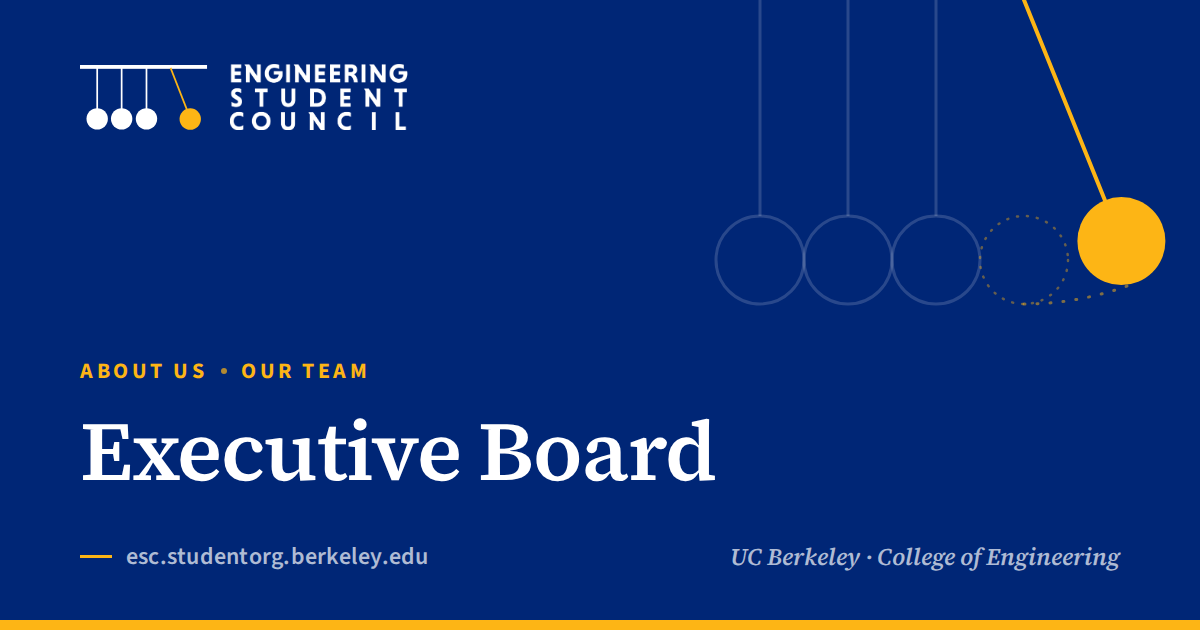
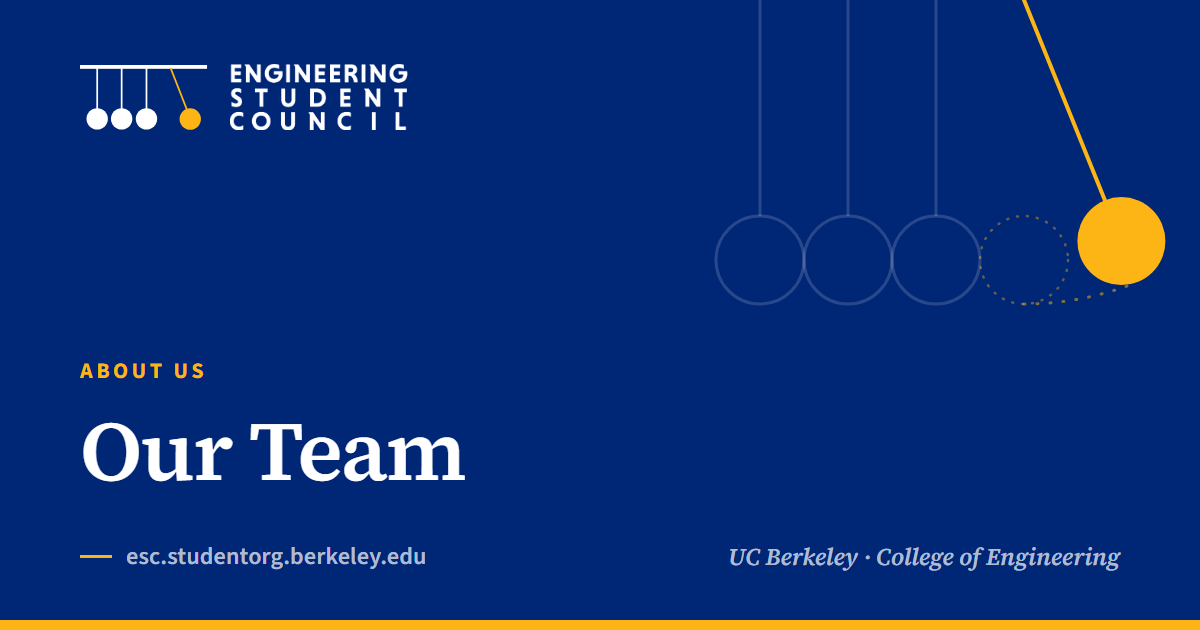
Rebuild execs.html link preview

diff --git a/execs.html b/execs.html
@@ -12,19 +12,19 @@
     <!-- Generated by `npm run build:og`; edit data/search/pages.json, not this block. -->
     <meta property="og:type" content="website" />
     <meta property="og:site_name" content="Engineering Student Council at UC Berkeley" />
-    <meta property="og:title" content="Executive Board" />
-    <meta property="og:description" content="Engineering Student Council Executive Board." />
+    <meta property="og:title" content="Our Team" />
+    <meta property="og:description" content="Meet ESC's executive board and the committees each officer leads." />
     <meta property="og:url" content="https://esc.studentorg.berkeley.edu/execs.html" />
     <meta property="og:image" content="https://esc.studentorg.berkeley.edu/images/og/execs.png" />
     <meta property="og:image:type" content="image/png" />
     <meta property="og:image:width" content="1200" />
     <meta property="og:image:height" content="630" />
-    <meta property="og:image:alt" content="Executive Board · Engineering Student Council at UC Berkeley" />
+    <meta property="og:image:alt" content="Our Team · Engineering Student Council at UC Berkeley" />
     <meta name="twitter:card" content="summary_large_image" />
-    <meta name="twitter:title" content="Executive Board" />
-    <meta name="twitter:description" content="Engineering Student Council Executive Board." />
+    <meta name="twitter:title" content="Our Team" />
+    <meta name="twitter:description" content="Meet ESC's executive board and the committees each officer leads." />
     <meta name="twitter:image" content="https://esc.studentorg.berkeley.edu/images/og/execs.png" />
-    <meta name="twitter:image:alt" content="Executive Board · Engineering Student Council at UC Berkeley" />
+    <meta name="twitter:image:alt" content="Our Team · Engineering Student Council at UC Berkeley" />
     <meta name="theme-color" content="#002676" />
     <!-- link-preview:end -->
     <link rel="stylesheet" href="assets/css/main.css" />
